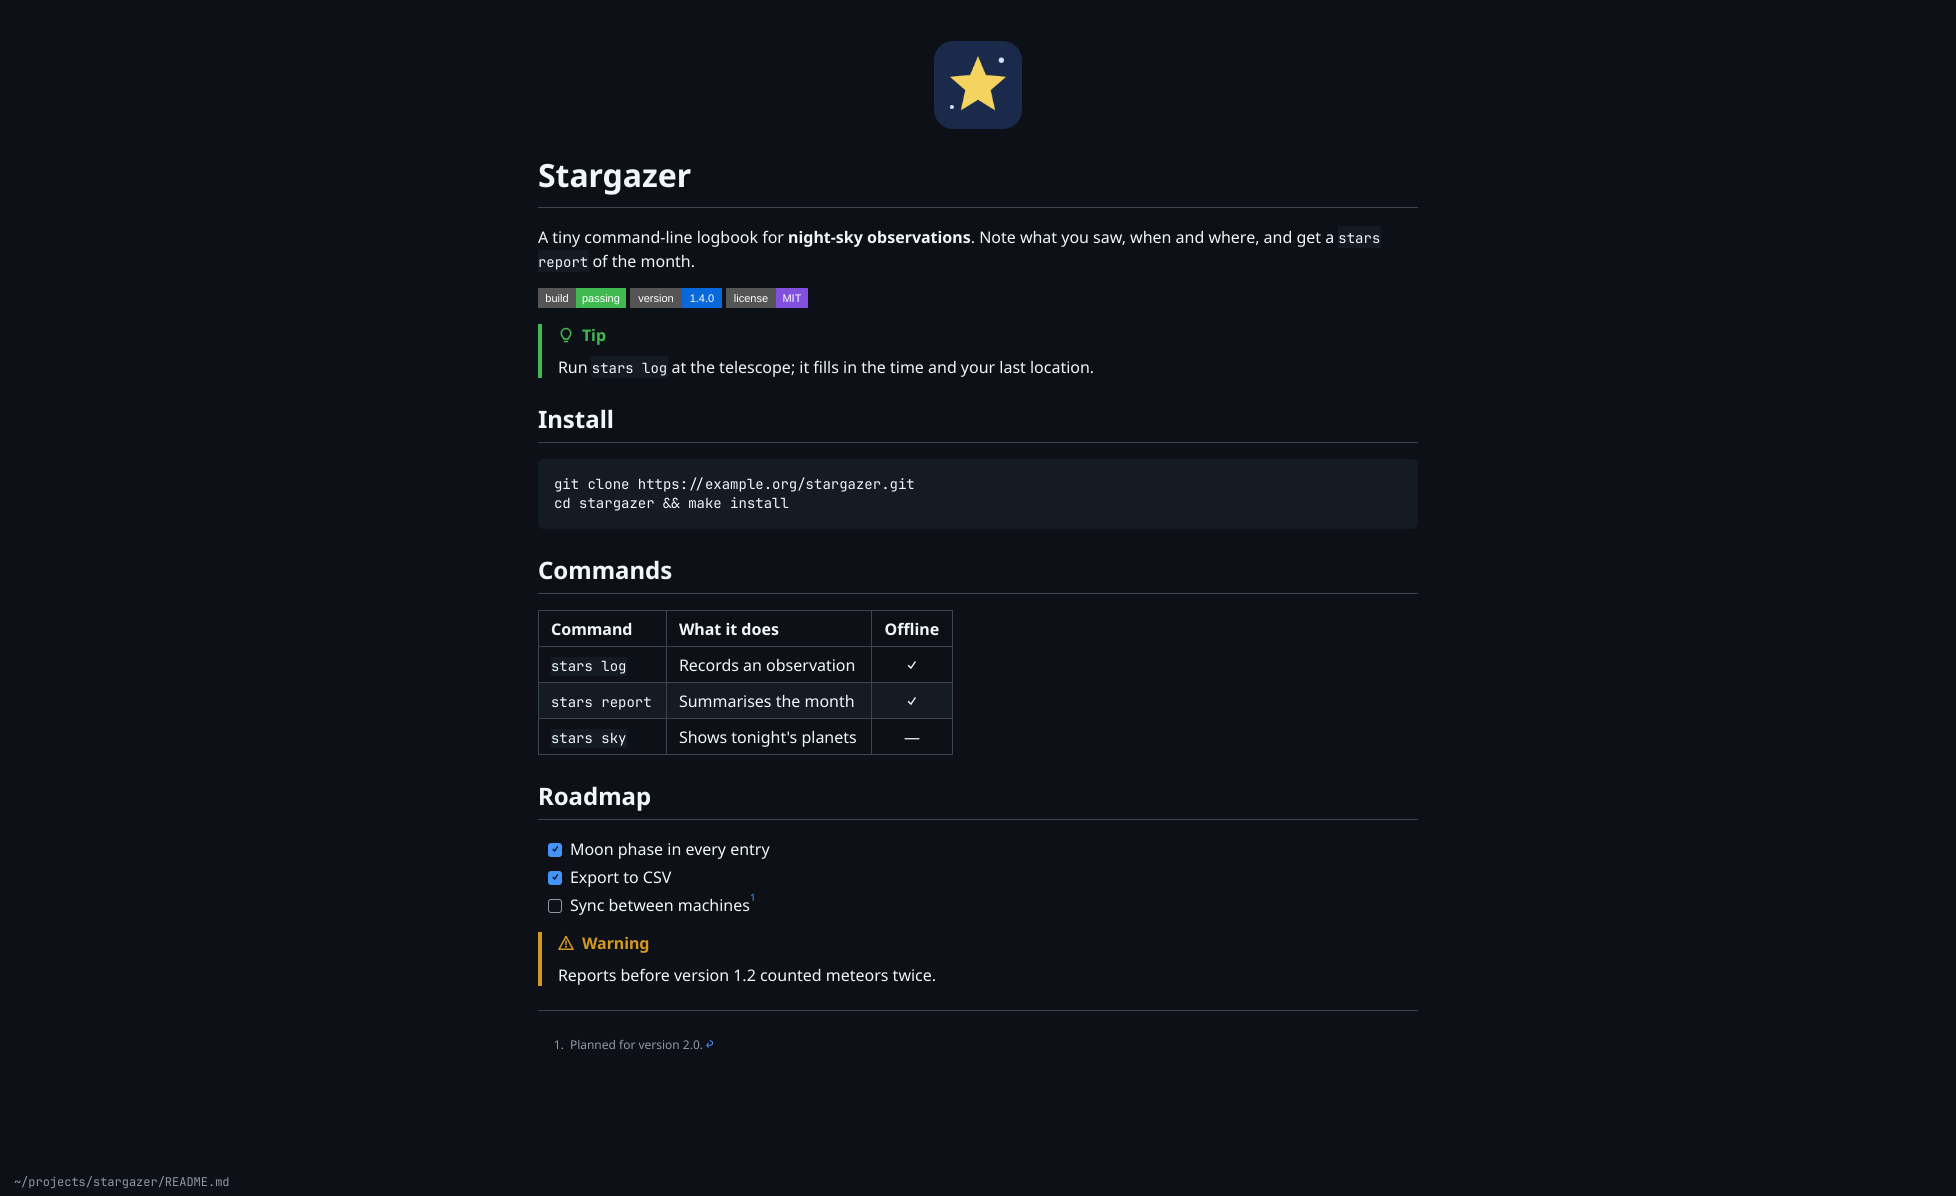
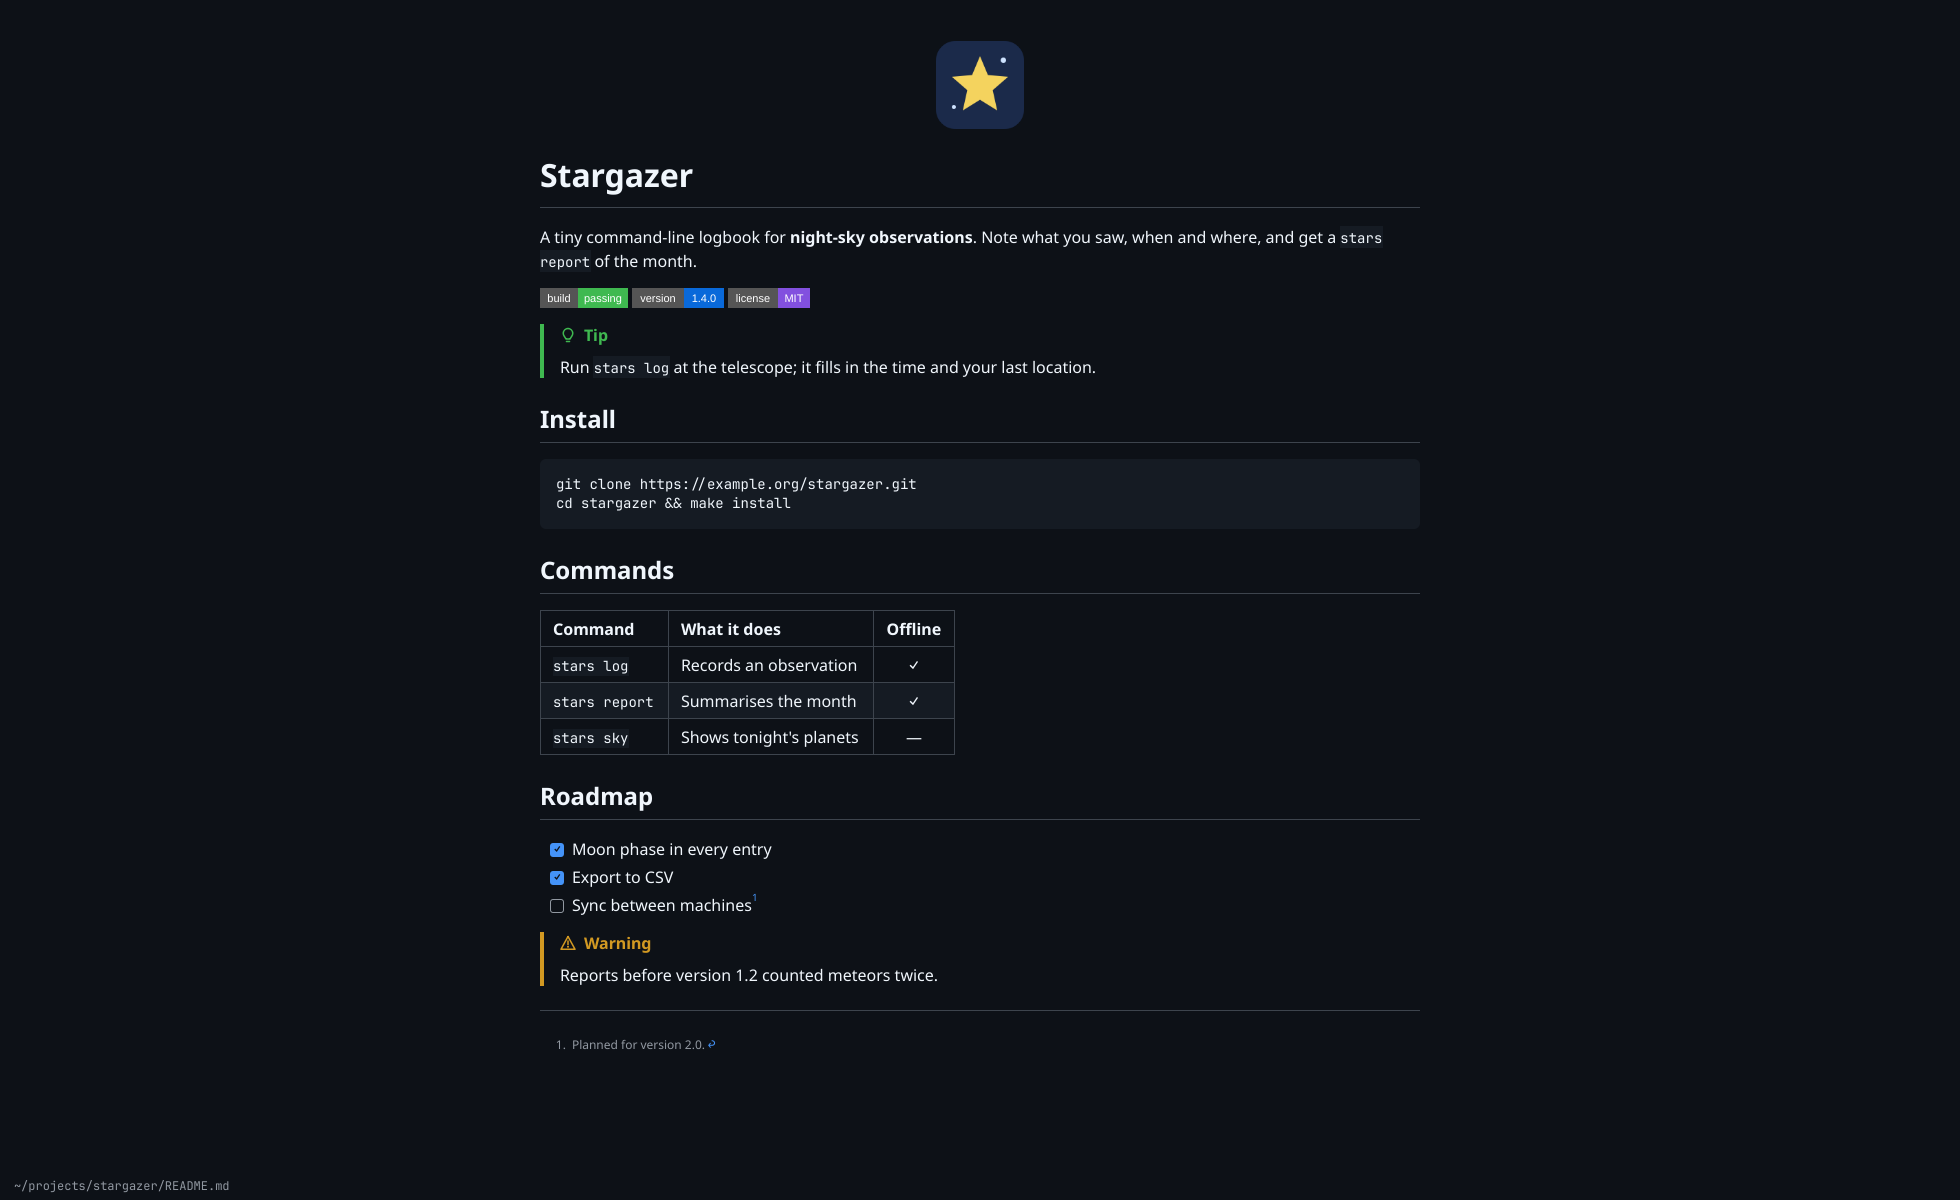
Add bin/snapshot and bin/screenshots, to see changes without a window
bin/snapshot renders a file offscreen, as a PNG of the window or as the
printed pages in a PDF, with QML warnings in the terminal. bin/screenshots
remakes the README's screenshots from a made-up project in
tools/demo/stargazer, read from a stand-in home folder so nothing of this
machine shows.

diff --git a/tools/snapshot.cpp b/tools/snapshot.cpp
@@ -1,0 +1,82 @@
+// Renders Omaread offscreen, to see a change without opening a window: a
+// screenshot of the window, or the printed pages as a PDF. Run it through
+// bin/snapshot, which builds it and sets up the offscreen screen.
+
+#include <QApplication>
+#include <QFileInfo>
+#include <QPrinter>
+#include <QQmlApplicationEngine>
+#include <QQmlContext>
+#include <QQuickStyle>
+#include <QQuickWindow>
+#include <QScreen>
+#include <QTextStream>
+#include <QTimer>
+
+#include "backend.h"
+
+int main(int argc, char *argv[]) {
+    QApplication app(argc, argv);
+    // Settings apart from Omaread's own, so a saved text size or window
+    // size does not leak into the picture.
+    app.setOrganizationName(QStringLiteral("omaread-snapshot"));
+
+    QStringList args = app.arguments().mid(1);
+    bool dark = true;
+    qreal scroll = 0;
+    while (!args.isEmpty() && args.first().startsWith(QLatin1String("--"))) {
+        const QString option = args.takeFirst();
+        if (option == QLatin1String("--light"))
+            dark = false;
+        else if (option == QLatin1String("--dark"))
+            dark = true;
+        else if (option == QLatin1String("--scroll") && !args.isEmpty())
+            scroll = args.takeFirst().toDouble();
+    }
+    if (args.size() != 2) {
+        QTextStream(stderr) << "usage: snapshot [--light | --dark] [--scroll Y] FILE OUT.png|OUT.pdf\n";
+        return 2;
+    }
+    const QUrl file = QUrl::fromLocalFile(QFileInfo(args.at(0)).absoluteFilePath());
+    const QString out = args.at(1);
+
+    Backend backend;
+    backend.setDarkMode(dark);
+
+    if (out.endsWith(QLatin1String(".pdf"), Qt::CaseInsensitive)) {
+        backend.open(file);
+        QPrinter printer(QPrinter::HighResolution);
+        printer.setOutputFormat(QPrinter::PdfFormat);
+        printer.setPageSize(QPageSize(QPageSize::A4));
+        printer.setOutputFileName(out);
+        backend.printTo(printer);
+        return 0;
+    }
+
+    QQuickStyle::setStyle(QStringLiteral("Material"));
+    QQmlApplicationEngine engine;
+    engine.rootContext()->setContextProperty(QStringLiteral("backend"), &backend);
+    engine.load(QUrl(QStringLiteral("qrc:/Main.qml")));
+    if (engine.rootObjects().isEmpty())
+        return 1;
+    auto *window = qobject_cast<QQuickWindow *>(engine.rootObjects().constFirst());
+    // The window is the whole offscreen screen, which bin/snapshot sizes.
+    window->setGeometry(window->screen()->geometry());
+    backend.setParentWindow(window);
+    backend.open(file);
+
+    // Long enough for images, local or from the web, to load and settle.
+    QTimer::singleShot(2500, &app, [&]() {
+        if (scroll > 0)
+            QMetaObject::invokeMethod(window, "scrollTo", Q_ARG(QVariant, QVariant(scroll)));
+        QTimer::singleShot(300, &app, [&]() {
+            if (!window->grabWindow().save(out)) {
+                QTextStream(stderr) << "snapshot: could not write " << out << "\n";
+                app.exit(1);
+                return;
+            }
+            app.quit();
+        });
+    });
+    return app.exec();
+}

diff --git a/README.md b/README.md
@@ -6,8 +6,8 @@ keeps up with the file as it changes. It is modelled on
 [Omawrite](https://github.com/omacom/omawrite), and the two work as a pair:
 write in one, read in the other.
 
-<img width="1956" height="1196" alt="Omaread showing a project README in GitHub's light colours" src="docs/omaread-light.png" />
-<img width="1956" height="1196" alt="The same README in GitHub's dark colours" src="docs/omaread-dark.png" />
+<img width="1960" height="1200" alt="Omaread showing a project README in GitHub's light colours" src="docs/omaread-light.png" />
+<img width="1960" height="1200" alt="The same README in GitHub's dark colours" src="docs/omaread-dark.png" />
 
 Files are parsed by [cmark-gfm](https://github.com/github/cmark-gfm), the
 parser github.com itself uses, with the same extensions. That covers tables,
@@ -90,6 +90,24 @@ pacman and may ask for authentication. To make Omaread what opens `.md` files:
 ```sh
 xdg-mime default omaread.desktop text/markdown text/x-markdown
 ```
+
+## Seeing changes without a window
+
+`bin/snapshot` renders a file offscreen, to look at a change without opening
+Omaread: a PNG of the window, or the printed pages as a PDF.
+
+```sh
+./bin/snapshot README.md /tmp/readme.png                 # in your Omarchy theme
+./bin/snapshot --light --size 800x1200 README.md /tmp/readme.png
+./bin/snapshot --dark --scroll 900 README.md /tmp/further-down.png
+./bin/snapshot README.md /tmp/readme.pdf                 # as printed, on A4
+```
+
+QML warnings show in the terminal. `--light` and `--dark` use GitHub's own
+colours instead of the Omarchy theme.
+
+`bin/screenshots` remakes the two screenshots above from a made-up project in
+`tools/demo/stargazer`.
 
 ## Not yet
 

diff --git a/tools/demo/stargazer/README.md b/tools/demo/stargazer/README.md
@@ -1,0 +1,38 @@
+<p align="center">
+  <img src="docs/logo.svg" width="88" alt="Stargazer">
+</p>
+
+# Stargazer
+
+A tiny command-line logbook for **night-sky observations**. Note what you saw, when and where, and get a `stars report` of the month.
+
+![build](docs/build.svg) ![version](docs/version.svg) ![license](docs/license.svg)
+
+> [!TIP]
+> Run `stars log` at the telescope; it fills in the time and your last location.
+
+## Install
+
+```sh
+git clone https://example.org/stargazer.git
+cd stargazer && make install
+```
+
+## Commands
+
+| Command | What it does | Offline |
+| :--- | :--- | :---: |
+| `stars log` | Records an observation | ✓ |
+| `stars report` | Summarises the month | ✓ |
+| `stars sky` | Shows tonight's planets | — |
+
+## Roadmap
+
+- [x] Moon phase in every entry
+- [x] Export to CSV
+- [ ] Sync between machines[^1]
+
+> [!WARNING]
+> Reports before version 1.2 counted meteors twice.
+
+[^1]: Planned for version 2.0.
